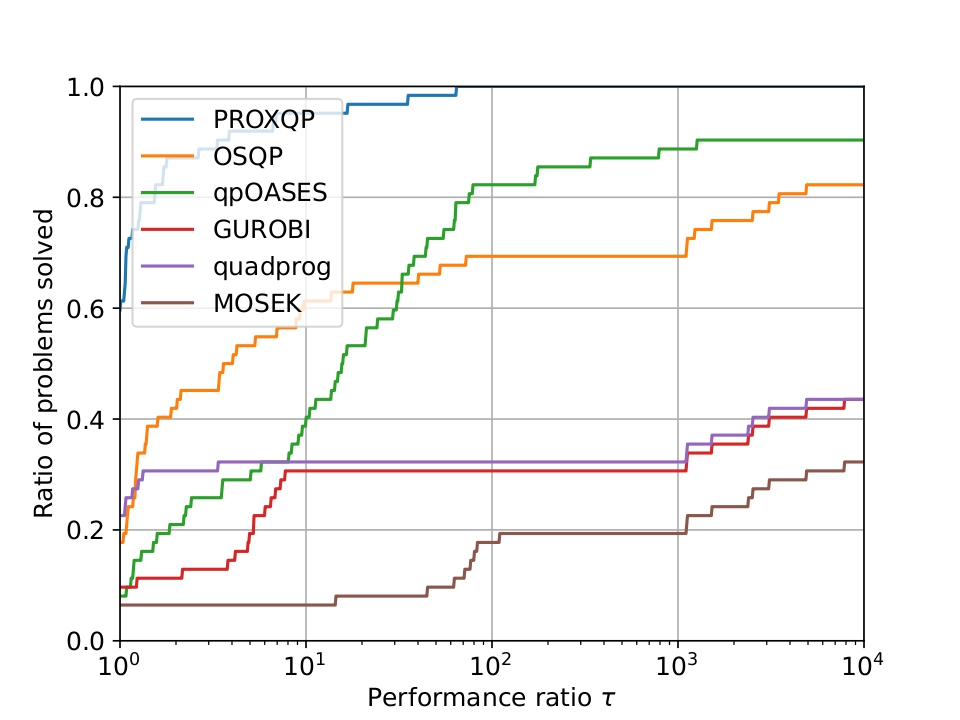
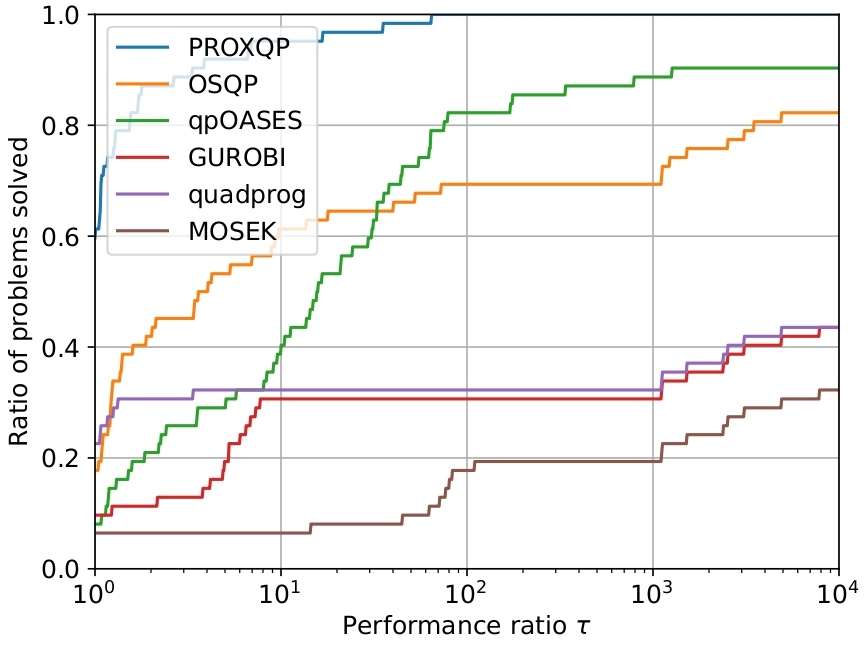
resize the images + add the installation procedure in the documentation

diff --git a/README.md b/README.md
@@ -38,80 +38,21 @@ The numerical benchmarks of **ProxQP** against other commercial and open-source 
 For dense Convex Quadratic Programs with inequality and equality constraints, when asking for a relatively high accuracy (e.g., 1.E-6), one obtains the following results.
 
 <p align="center">
-  <img src="./doc/images/time_series_barplot_Random Mixed QP_dense_eps_abs_1e-6.jpg" width="700" alt="Random Mixed QP_dense_eps_abs_1e-6" align="center"/>
+  <img src="./doc/images/time_series_barplot_Random Mixed QP_dense_eps_abs_1e-6.jpg" width="600" alt="Random Mixed QP_dense_eps_abs_1e-6" align="center"/>
 </p>
+
+On the y-axis you can see timings in microseconds, and on the x-axis dimension wrt to the primal variable of the random Quadratic problems generated (the number of constraints of the generated problem is half the size of its primal dimension). For every dimension, the problem is generated over different seeds and timings are obtained as averages over successive runs for the same problems. This chart shows for every benchmarked solvers and random Quadratic programs generated, barplots timings including median (as a dot) and minimal and maximal values obtained (defining the amplitude of the bar). You can see that ProxQP is always below over solvers, which means it is the quickest for this test.
 
 For hard problems from the [Maros Meszaros testset](http://www.cuter.rl.ac.uk/Problems/marmes.shtml), when asking for a high accuracy (e.g., 1.E-9), one obtains the results below.
 
 <p align="center">
-  <img src="./doc/images/performance_profile_maros_meszaros_problems_high_accuracy.jpg" width="700" alt="maros_meszaros_problems_high_accuracy" align="center"/>
+  <img src="./doc/images/performance_profile_maros_meszaros_problems_high_accuracy.jpg" width="600" alt="maros_meszaros_problems_high_accuracy" align="center"/>
 </p>
 
-These results have been obtained with a 11th Gen Intel(R) Core(TM) i7-11850H @ 2.50GHz CPU.
+This chart above reports performance profiles of different solvers. It is classic for benchmarking solvers. Performance profiles correspond to the fraction of problems solved (on y-axis) as a function of certain runtime (on x-axis, measured in terms of a multiple of the runtime of the fastest solver for that problem). So the higher on the chart the better. You can see that ProxQP solves the quickest over 60% of the problems (i.e., for $$\tau=0$$), and that for solving about 90% of the problems, it is at most 2 times slower than the fastest solvers solving these problems (i.e., for $$\tau=2$$).
+
+Note: All these results have been obtained with a 11th Gen Intel(R) Core(TM) i7-11850H @ 2.50GHz CPU.
 
 ## Installation
 
-### Building from source
-
-#### Required install dependencies
-
-The following dependencies are required at compile time:
-
-* CMake
-* Eigen >= 3.0.5
-* C++ >= 17
-
-#### Installation instructions
-
-1. Clone this repository with:
-
-```bash
-git clone https://github.com/Simple-Robotics/proxsuite.git --recursive
-```
-
-2. Create a build tree using CMake, build and install:
-
-```bash
-mkdir build && cd build
-cmake .. -DCMAKE_BUILD_TYPE=Release -DBUILD_TESTING=OFF
-make
-make install
-```
-
-3. Build the Python interface
-
-You just need to ensure that Python3 is indeed present on your system and activate the cmake option `BUILD_PYTHON_INTERFACE=ON` by replacing:
-
-```bash
-mkdir build && cd build
-cmake .. -DCMAKE_BUILD_TYPE=Release -DBUILD_TESTING=OFF -DBUILD_PYTHON_INTERFACE=ON
-make
-make install
-```
-
-4. Generate the doc
-
-To build the documentation, you need installing Doxygen. Once it is done, it then is as simple as:
-
-```bash
-make doc
-open doc/doxygen_html/index.html
-```
-
-#### Disabling vectorization
-
-We highly encourage you to enable the vectorization of the underlying linear algebra for the best performances.
-They are active by default in **ProxSuite**.
-Yet, some CPU architectures may not support such operations.
-You just need to deactivate the cmake option `BUILD_WITH_VECTORIZATION_SUPPORT=OFF`, like:
-
-```bash
-mkdir build && cd build
-cmake .. -DCMAKE_BUILD_TYPE=Release -DBUILD_TESTING=OFF -DBUILD_WITH_VECTORIZATION_SUPPORT=OFF
-make
-make install
-```
-
-#### Testing
-
-To test the whole framework, you need installing first [Matio](https://github.com/ami-iit/matio-cpp) (for reading .mat files in C++). You can then activate the build of the unit tests by activating the cmake option `BUILD_TESTING=ON`.
+Please follow the installation procedure [here](./doc/5-installation.md).

diff --git a/doc/5-installation.md b/doc/5-installation.md
@@ -1,0 +1,66 @@
+## Installation
+
+### Building from source
+
+#### Required install dependencies
+
+The following dependencies are required at compile time:
+
+* CMake
+* Eigen >= 3.0.5
+* C++ >= 17
+
+#### Installation instructions
+
+1. Clone this repository with:
+
+```bash
+git clone https://github.com/Simple-Robotics/proxsuite.git --recursive
+```
+
+2. Create a build tree using CMake, build and install:
+
+```bash
+mkdir build && cd build
+cmake .. -DCMAKE_BUILD_TYPE=Release -DBUILD_TESTING=OFF
+make
+make install
+```
+
+3. Build the Python interface
+
+You just need to ensure that Python3 is indeed present on your system and activate the cmake option `BUILD_PYTHON_INTERFACE=ON` by replacing:
+
+```bash
+mkdir build && cd build
+cmake .. -DCMAKE_BUILD_TYPE=Release -DBUILD_TESTING=OFF -DBUILD_PYTHON_INTERFACE=ON
+make
+make install
+```
+
+4. Generate the doc
+
+To build the documentation, you need installing Doxygen. Once it is done, it then is as simple as:
+
+```bash
+make doc
+open doc/doxygen_html/index.html
+```
+
+#### Disabling vectorization
+
+We highly encourage you to enable the vectorization of the underlying linear algebra for the best performances.
+They are active by default in **ProxSuite**.
+Yet, some CPU architectures may not support such operations.
+You just need to deactivate the cmake option `BUILD_WITH_VECTORIZATION_SUPPORT=OFF`, like:
+
+```bash
+mkdir build && cd build
+cmake .. -DCMAKE_BUILD_TYPE=Release -DBUILD_TESTING=OFF -DBUILD_WITH_VECTORIZATION_SUPPORT=OFF
+make
+make install
+```
+
+#### Testing
+
+To test the whole framework, you need installing first [Matio](https://github.com/ami-iit/matio-cpp) (for reading .mat files in C++). You can then activate the build of the unit tests by activating the cmake option `BUILD_TESTING=ON`.

diff --git a/doc/1-Overview.md b/doc/1-Overview.md
@@ -18,7 +18,7 @@ In this doc, you will find the usual description of the library functionalities 
 
 \section OverviewInstall How to install ProxSuite?
 
-The full installation procedure can be found on the Github Pages of the project: https://github.com/Simple-Robotics/proxsuite.
+The full installation procedure can be found [here](5-installation.md).
 
 If you just need the Python bindings, you can directly have access to them through Conda. On systems for which binaries are not provided, installation from source should be straightforward. Every release is validated in main Linux, Mac OS X and Windows distributions.
 
